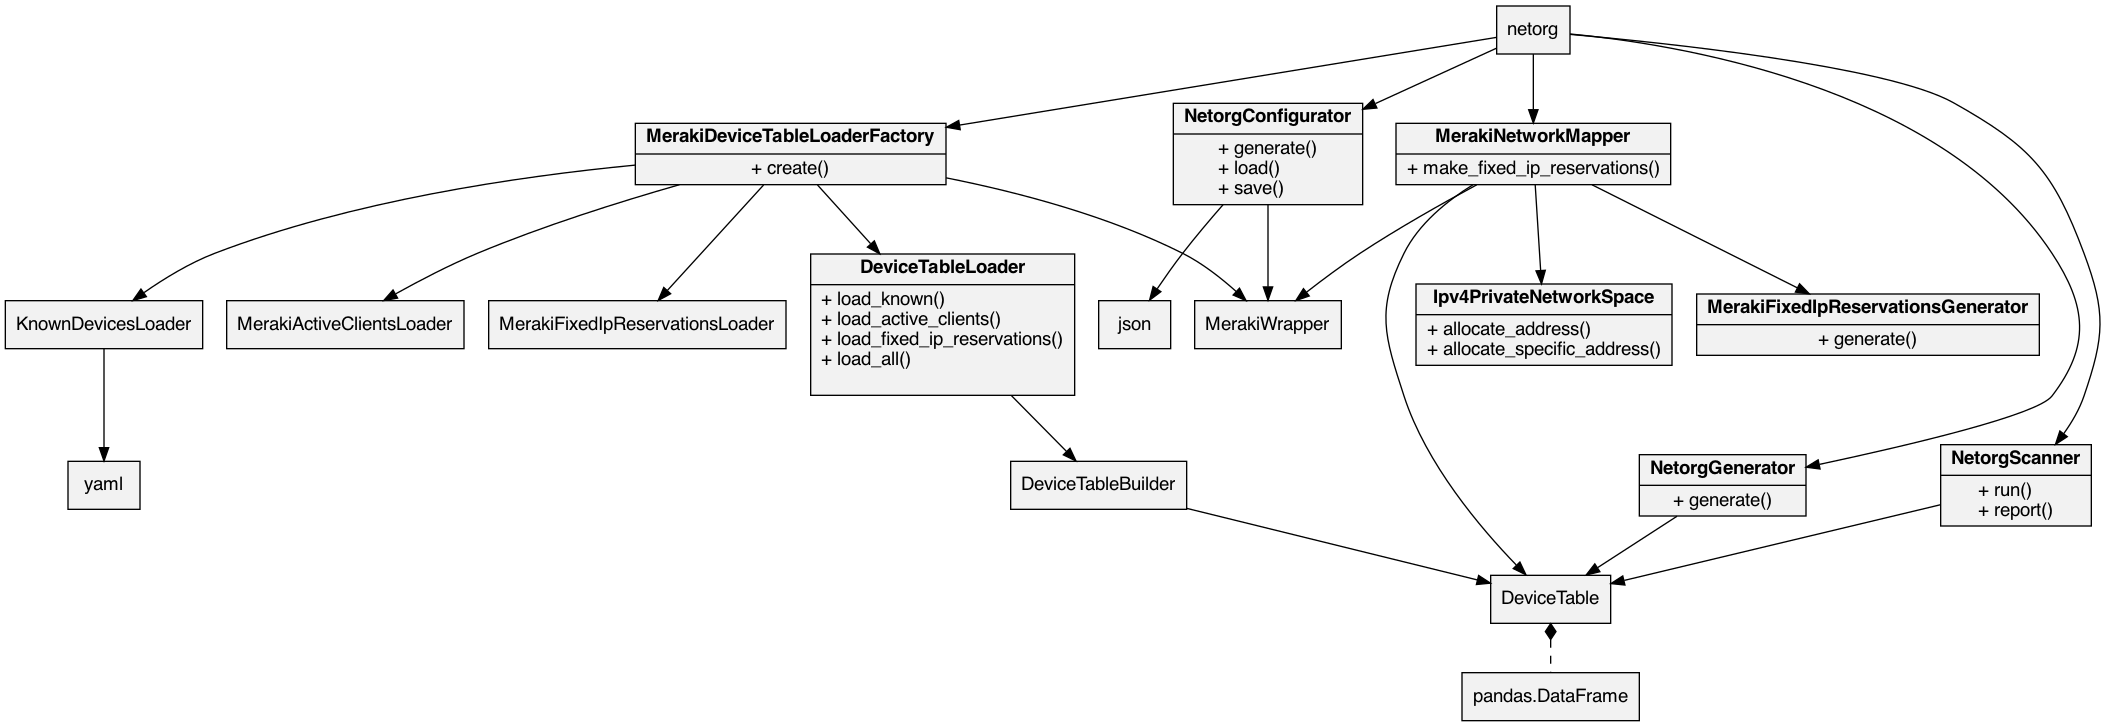
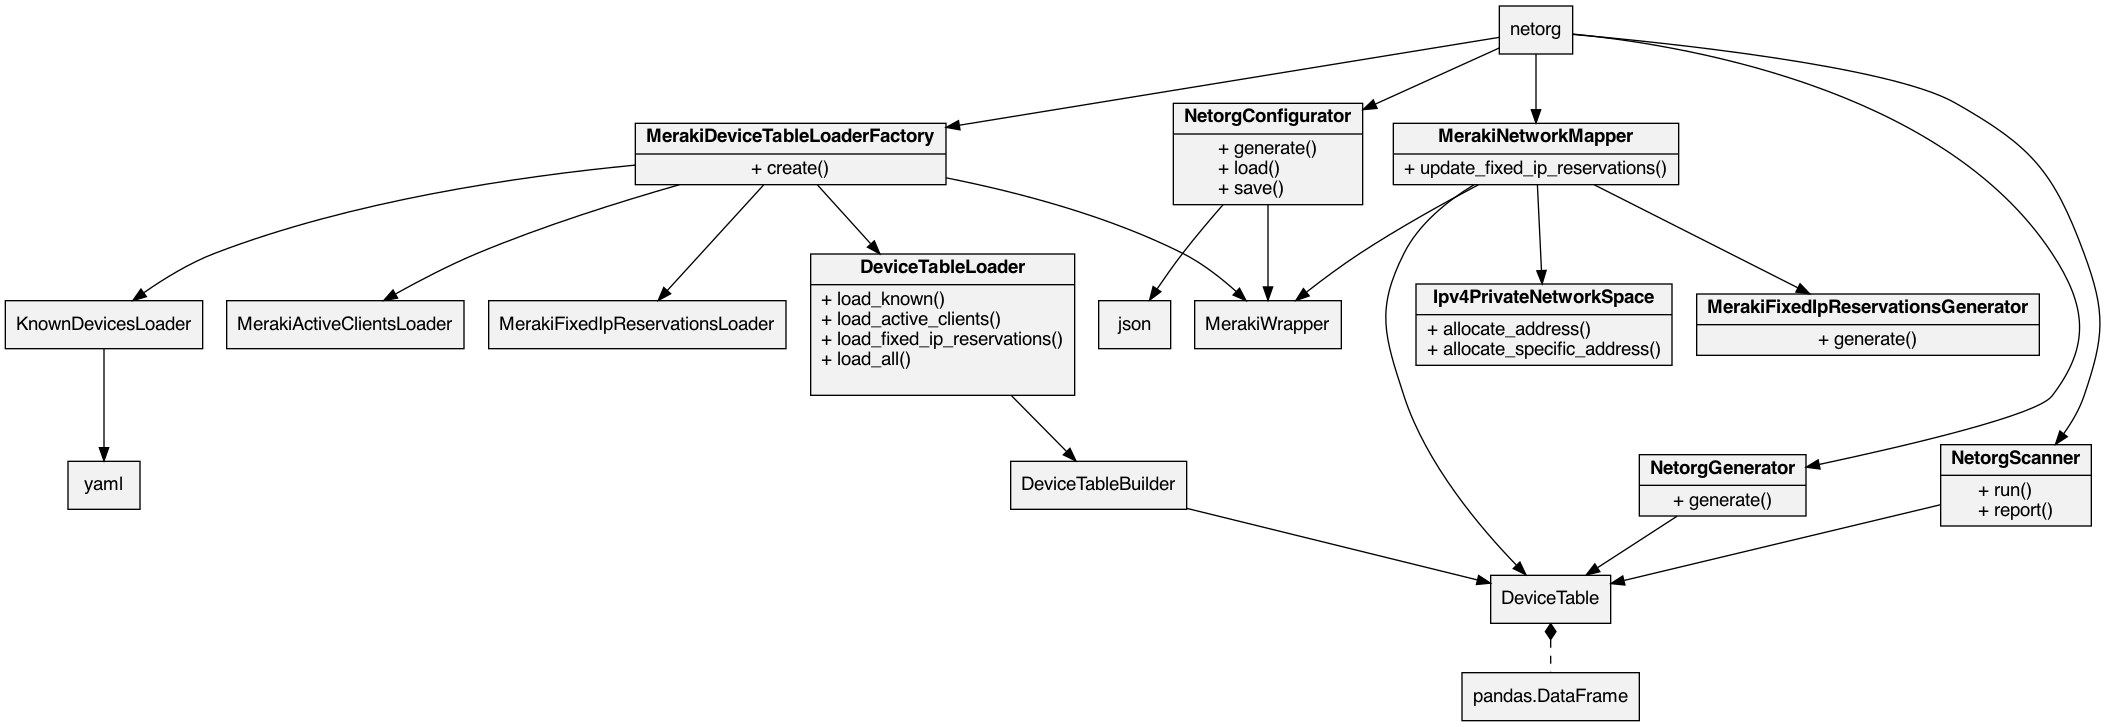
lint netorgmeraki.py change make_fixed_ip_reservations to update_fixed_ip_reservations

diff --git a/netorgmeraki.py b/netorgmeraki.py
@@ -1,30 +1,39 @@
-import meraki
+"""Module for all things interacting directly with the Meraki Dashboard API."""
 import re
+import meraki
 from deepdiff import DeepDiff
 from ipv4privatenetworkspace import Ipv4PrivateNetworkSpace
 
 class MerakiWrapperException(Exception) :
+    # pylint: disable=missing-class-docstring
     pass
 
 class InvalidApiKey(MerakiWrapperException) :
+    # pylint: disable=missing-class-docstring
     pass
 
 class FailedToInitializeMeraki(MerakiWrapperException) :
+    # pylint: disable=missing-class-docstring
     pass
 
 class NoOrganizationFound(MerakiWrapperException) :
+    # pylint: disable=missing-class-docstring
     pass
 
 class MoreThanOneOrganizationFound(MerakiWrapperException) :
+    # pylint: disable=missing-class-docstring
     pass
 
 class NoNetworksFound(MerakiWrapperException) :
+    # pylint: disable=missing-class-docstring
     pass
 
 class NoDevicesFound(MerakiWrapperException) :
+    # pylint: disable=missing-class-docstring
     pass
 
 class NoVlansFound(MerakiWrapperException) :
+    # pylint: disable=missing-class-docstring
     pass
 
 class MerakiWrapper :
@@ -53,10 +62,10 @@ class MerakiWrapper :
     @staticmethod
     def find_org_id(dashboard) -> str:
         """Return the org ID."""
-        organizations= dashboard.organizations.getOrganizations() 
-        if len(organizations) == 0 : 
+        organizations= dashboard.organizations.getOrganizations()
+        if len(organizations) == 0 :
             raise NoOrganizationFound
-        elif len(organizations) > 1 : 
+        if len(organizations) > 1 :
             raise MoreThanOneOrganizationFound
         return organizations[0]["id"]
 
@@ -64,7 +73,7 @@ class MerakiWrapper :
     def build_choices(menu) -> dict:
         """Build a choices dict where each menu item has a numeric key"""
         choice = 1
-        choices = dict()
+        choices = {}
         for network_name in menu:
             choices[str(choice)] = network_name
             choice += 1
@@ -110,7 +119,7 @@ class MerakiWrapper :
         devices = dashboard.networks.getNetworkDevices(network_id)
         if len(devices) == 0 :
             raise NoDevicesFound
-        elif len(devices) > 1 :
+        if len(devices) > 1 :
             return MerakiWrapper.select_from_devices(devices, chooser_func)
         return devices[0]["serial"]
 
@@ -120,7 +129,7 @@ class MerakiWrapper :
         vlans = dashboard.appliance.getNetworkApplianceVlans(network_id)
         if len(vlans) == 0 :
             raise NoVlansFound
-        elif len(vlans) > 1 :
+        if len(vlans) > 1 :
             return MerakiWrapper.select_from_vlans(vlans, chooser_func)
         return vlans[0]["id"]
 
@@ -139,56 +148,68 @@ class MerakiWrapper :
         self.serial_id = ''
         self.vlan_id = ''
         self.vlan_subnet = ''
-    
+
     def initialize(self, chooser_func) :
         """Fully initialize the wrapper."""
         try :
             self.org_id = MerakiWrapper.find_org_id(self.dashboard)
-            self.network_id = MerakiWrapper.find_network_id(self.dashboard, self.org_id, chooser_func)
-            self.serial_id = MerakiWrapper.find_device_serial_id(self.dashboard, self.network_id, chooser_func)
-            self.vlan_id = MerakiWrapper.find_vlan_id(self.dashboard, self.network_id, chooser_func)
-            self.vlan_subnet = MerakiWrapper.find_vlan_subnet(self.dashboard,self.network_id,self.vlan_id)
+            self.network_id = MerakiWrapper.find_network_id(
+                self.dashboard, self.org_id, chooser_func)
+            self.serial_id = MerakiWrapper.find_device_serial_id(
+                self.dashboard, self.network_id, chooser_func)
+            self.vlan_id = MerakiWrapper.find_vlan_id(
+                self.dashboard, self.network_id, chooser_func)
+            self.vlan_subnet = MerakiWrapper.find_vlan_subnet(
+                self.dashboard,self.network_id,self.vlan_id)
         except meraki.exceptions.APIError as exc:
             print(f'Failed to initialize MerakiWrapper: {exc}')
             raise MerakiWrapperException from exc
 
-
-
 class MerakiActiveClientsLoader:
-    
+    """Load active clients from Meraki."""
+    # pylint: disable=too-few-public-methods
+
     def __init__(self,meraki_dashboard,serial_id, vlan_id) -> None:
         self.dashboard = meraki_dashboard
         self.serial_id = serial_id
         self.vlan_id = vlan_id
 
     def load(self) :
+        """Load active clients."""
         device_clients = self.dashboard.devices.getDeviceClients(self.serial_id)
+        # pylint: disable=line-too-long
         filtered_for_vlan = [ device_client for device_client in device_clients if device_client['vlan'] == self.vlan_id]
         return filtered_for_vlan
 
+class MerakiFixedIpReservationsGenerator:
+    """Generate fixed IP reservations for Meraki."""
+    # pylint: disable=too-few-public-methods
 
-
-class MerakiFixedIpReservationsGenerator : 
-    def generate(self,device_table) -> dict:
-        dict = {}
+    @staticmethod
+    def generate(device_table) -> dict:
+        """Generate fixed IP reservations."""
+        # pylint: disable=invalid-name
+        ip_reservations_dict = {}
         df = device_table.df
         skip_these_macs = df.query("not known and reserved and not active").mac.unique().tolist()
         macs = df.mac.unique().tolist()
         for mac in macs :
-            if mac not in skip_these_macs: 
-                device_df = df.query('mac == @mac') 
-                if device_df.shape[0] == 1: 
-                    ip = device_df.iloc[0]['ip'] 
-                    name = device_df.iloc[0]['name'] 
-                    dict[mac] = { 
-                        'ip': ip, 
+            if mac not in skip_these_macs:
+                device_df = df.query('mac == @mac')
+                if device_df.shape[0] == 1:
+                    ip = device_df.iloc[0]['ip']
+                    name = device_df.iloc[0]['name']
+                    ip_reservations_dict[mac] = {
+                        'ip': ip,
                         'name': name
                     }
             else:
                 print(f'MerakiFixedIpReservationsGenerator: skipping {mac}')
-        return dict
+        return ip_reservations_dict
 
 class MerakiFixedIpReservationsLoader:
+    """Load fixed IP reservations from Meraki."""
+    # pylint: disable=too-few-public-methods
 
     def __init__(self,meraki_dashboard,network_id,vlan_id) -> None:
         self.dashboard = meraki_dashboard
@@ -196,67 +217,77 @@ class MerakiFixedIpReservationsLoader:
         self.vlan_id = vlan_id
 
     def load(self) :
+        """Load fixed iP reservations."""
         vlan = self.dashboard.appliance.getNetworkApplianceVlan(self.network_id, str(self.vlan_id))
         existing_reservations = vlan['fixedIpAssignments']
         return existing_reservations
 
-class MerakiNetworkMapper : # TODO
-
+class MerakiNetworkMapper :
+    """Map the address space to Meraki."""
     def __init__(self, config, device_table) -> None:
         self.config = config
         self.device_table = device_table
         self.network_space = Ipv4PrivateNetworkSpace(config['vlan_subnet'])
+        # pylint: disable=invalid-name
         for ip in self.find_ips() :
             self.network_space.allocate_specific_address(ip)
         for mac in self.find_macs_needing_ip() :
             self.assign_ip(mac)
-    
+
     def find_ips(self) -> list:
+        """Generate a list of IPs from the device table."""
+        # pylint: disable=invalid-name
         df = self.device_table.df
-        l = df.query("ip != ''")['ip'].tolist() 
-        return l
+        return df.query("ip != ''")['ip'].tolist()
 
     def find_macs_needing_ip(self) -> list:
+        """Generate a list of MACs that do not have an IP."""
+        # pylint: disable=invalid-name
         df = self.device_table.df
-        l = df.query("ip == ''")['mac'].tolist() 
-        return l
+        return df.query("ip == ''")['mac'].tolist()
 
-    def assign_ip(self,mac) : 
+    def assign_ip(self,mac) -> None:
+        """Assign an IP address to a device identified by it's MAC."""
+        # pylint: disable=invalid-name
         df = self.device_table.df
         df.loc[df["mac"] == mac, "ip"] = self.network_space.allocate_address()
 
-    def generate_fixed_ip_reservations(self) :
-        fixed_ip_reservations_generator = MerakiFixedIpReservationsGenerator()
-        return fixed_ip_reservations_generator.generate(self.device_table)
+    def generate_fixed_ip_reservations(self) -> dict:
+        """Generate fixed IP reservations."""
+        return MerakiFixedIpReservationsGenerator.generate(self.device_table)
 
     def show_diffs(self, old_fixed_ip_reservations, new_fixed_ip_reservations):
-        diff = DeepDiff(old_fixed_ip_reservations, new_fixed_ip_reservations) 
+        """Show the before and after differences to the fixed IP reservations."""
+        diff = DeepDiff(old_fixed_ip_reservations, new_fixed_ip_reservations)
         if diff:
-            print("Fixed IP reservation differences are as follows:") 
-            if 'dictionary_item_added' in diff: 
+            print("Fixed IP reservation differences are as follows:")
+            if 'dictionary_item_added' in diff:
                 print("  Adding reservations:")
-                added_list = diff['dictionary_item_added'] 
-                for added in added_list: 
-                    added = re.search("'.*'", added) 
-                    if added: 
-                        added = added.group() 
-                        added = added.strip("'") 
+                added_list = diff['dictionary_item_added']
+                for added in added_list:
+                    added = re.search("'.*'", added)
+                    if added:
+                        added = added.group()
+                        added = added.strip("'")
+                        # pylint: disable=line-too-long
                         print(f'    {new_fixed_ip_reservations[added]["ip"]} for device {added} named {new_fixed_ip_reservations[added]["name"]}')
             else:
-                print("  There are no new fixed IP reservations") 
-            if 'dictionary_item_removed' in diff: 
+                print("  There are no new fixed IP reservations")
+            if 'dictionary_item_removed' in diff:
                 print("  Removing reservations:")
-                removed_list = diff['dictionary_item_removed'] 
-                for removed in removed_list: 
-                    removed = re.search("'.*'", removed) 
-                    if removed: 
-                        removed = removed.group() 
-                        removed = removed.strip("'") 
+                removed_list = diff['dictionary_item_removed']
+                for removed in removed_list:
+                    removed = re.search("'.*'", removed)
+                    if removed:
+                        removed = removed.group()
+                        removed = removed.strip("'")
+                        # pylint: disable=line-too-long
                         print(f'    {old_fixed_ip_reservations[removed]["ip"]} for device {removed} named {old_fixed_ip_reservations[removed]["name"]}')
         else:
             print("There are no changes to fixed IP reservations")
 
-    def make_fixed_ip_reservations(self) :
+    def update_fixed_ip_reservations(self) :
+        """Update fixed IP reservations in Meraki."""
         new_fixed_ip_reservations = self.generate_fixed_ip_reservations()
         meraki_wrapper = MerakiWrapper(self.config['api_key'])
 
@@ -267,8 +298,9 @@ class MerakiNetworkMapper : # TODO
         before_vlan = dashboard.appliance.getNetworkApplianceVlan(network_id, str(vlan_id))
         old_fixed_ip_reservations = before_vlan['fixedIpAssignments']
 
-        self.show_diffs(old_fixed_ip_reservations, new_fixed_ip_reservations) 
+        self.show_diffs(old_fixed_ip_reservations, new_fixed_ip_reservations)
 
+        # pylint: disable=unused-variable
         response = dashboard.appliance.updateNetworkApplianceVlan(
-            network_id, vlan_id, 
+            network_id, vlan_id,
             fixedIpAssignments=new_fixed_ip_reservations)

diff --git a/netorg.py b/netorg.py
@@ -59,7 +59,7 @@ def main():
         generator = NetorgGenerator(config, device_table)
         generator.generate()
         meraki_network_mapper = MerakiNetworkMapper(config, device_table)
-        meraki_network_mapper.make_fixed_ip_reservations()
+        meraki_network_mapper.update_fixed_ip_reservations()
     elif args.devicetable:
         print("Export the device table")
         config = load_config()
